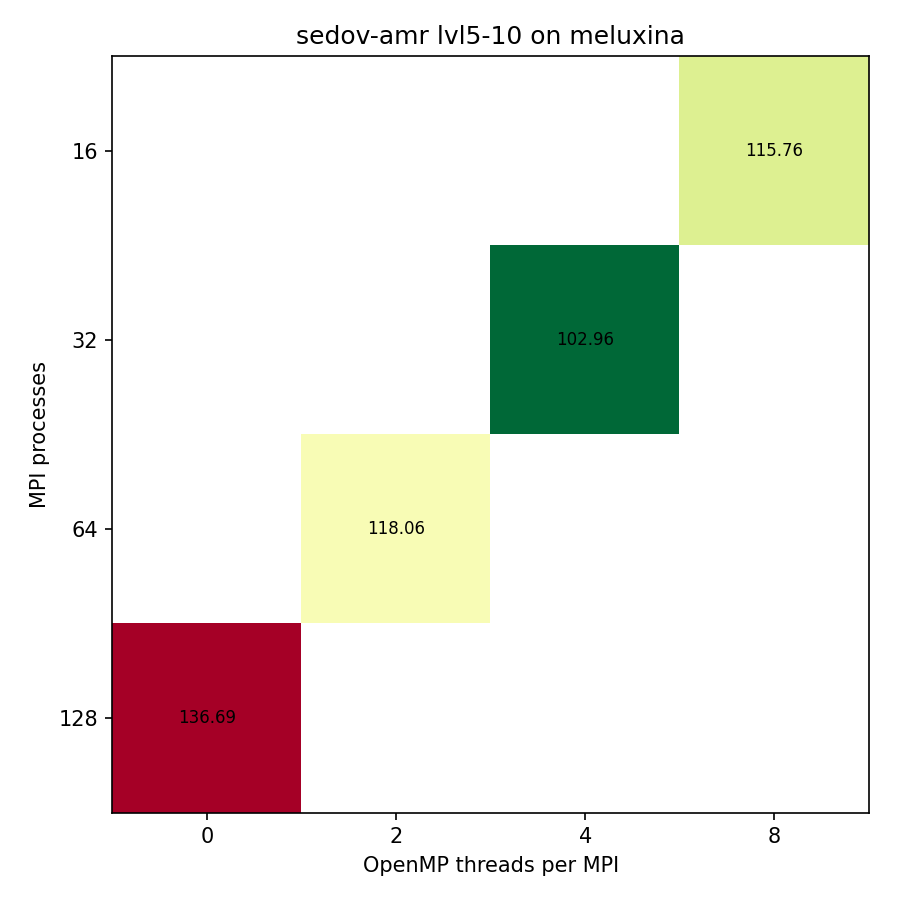
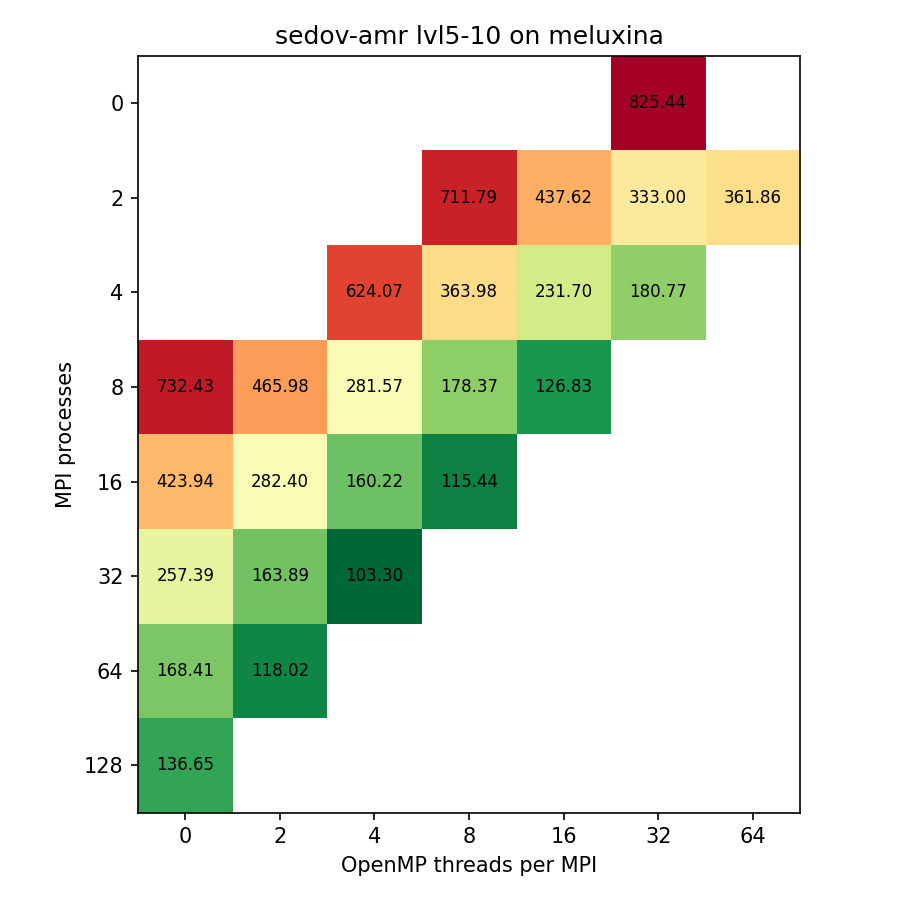
update sedov and sedov-amr on meluxina

diff --git a/results/results_sedov-amr_meluxina.md b/results/results_sedov-amr_meluxina.md
@@ -25,7 +25,7 @@ the time listed is for runs with MPI-only using the full compute node.
 
 | nodes | 2024-10 | 2026-05 | openmp (beta) | Δ [%] |
 |---|---|---|---|---|
-| 1 | 149.19 | 136.34 | 102.96 (MPI=32 OMP=4) | 31.0 |
+| 1 | 149.19 | 136.34 | 103.30 (MPI=32 OMP=4) | 30.8 |
 | 2 | 124.12 | 114.52 | 72.13 (MPI=16 OMP=8) | 41.9 |
 | 4 | 130.04 | 125.38 | 56.51 (MPI=16 OMP=8) | 56.5 |
 | 8 | - | - | 57.44 (MPI=16 OMP=8) | - |
@@ -49,9 +49,9 @@ using the full compute node.
 | nodes | 2024-10 | 2026-05 | openmp (beta) |
 |---|---|---|---|
 | 1 | 1.000 | 1.000 | 1.000 (MPI=32 OMP=4) |
-| 2 | 0.601 | 0.595 | 0.714 (MPI=16 OMP=8) |
-| 4 | 0.287 | 0.272 | 0.455 (MPI=16 OMP=8) |
-| 8 | - | - | 0.224 (MPI=16 OMP=8) |
+| 2 | 0.601 | 0.595 | 0.716 (MPI=16 OMP=8) |
+| 4 | 0.287 | 0.272 | 0.457 (MPI=16 OMP=8) |
+| 8 | - | - | 0.225 (MPI=16 OMP=8) |
 | 16 | - | - | 0.087 (MPI=16 OMP=8) |
 | 32 | - | - | 0.027 (MPI=16 OMP=8) |
 
@@ -85,13 +85,13 @@ when running with hybrid parallelisation.
 
 Unless otherwise stated, data is for runs using full compute nodes.
 
-| nodes | MPI-only | OMP=2 | OMP=4 | OMP=8 | best |
-|---|---|---|---|---|---|
-| 1 | 53.88 GB | 21.83 GB | 12.54 GB | 9.41 GB | 17.5 % |
-| 2 | 60.45 GB | 20.37 GB | 9.51 GB | 6.01 GB | 9.9 % |
-| 4 | 67.75 GB | 22.73 GB | 8.07 GB | 4.39 GB | 6.5 % |
-| 8 | - | 22.41 GB | 8.58 GB | 4.04 GB | - |
-| 16 | - | - | 8.24 GB | 3.74 GB | - |
-| 32 | - | - | - | 3.47 GB | - |
+| nodes | MPI-only | OMP=2 | OMP=4 | OMP=8 | OMP=16 | OMP=32 | OMP=64 | best |
+|---|---|---|---|---|---|---|---|---|
+| 1 | 53.88 GB | 21.83 GB | 12.54 GB | 9.41 GB | 8.19 GB | 7.51 GB | 7.28 GB | 13.5 % |
+| 2 | 60.45 GB | 20.37 GB | 9.51 GB | 6.01 GB | - | - | - | 9.9 % |
+| 4 | 67.75 GB | 22.73 GB | 8.07 GB | 4.39 GB | - | - | - | 6.5 % |
+| 8 | - | 22.41 GB | 8.58 GB | 4.04 GB | - | - | - | - |
+| 16 | - | - | 8.24 GB | 3.74 GB | - | - | - | - |
+| 32 | - | - | - | 3.47 GB | - | - | - | - |
 
 

diff --git a/results/results_sedov_meluxina.md b/results/results_sedov_meluxina.md
@@ -71,7 +71,7 @@ using the full compute node.
 | nodes | resolution | 2024-10 | 2025-05 | 2025-10 | 2026-05 | openmp (beta) |
 |---|---|---|---|---|---|---|
 | 1 | 256 | 1.000  | 1.000  | 1.000  | 1.000  | 1.000 (MPI=8 OMP=16) |
-| 8 | 512 | 0.903  | 0.962  | 0.998  | 0.950  | 0.963 (MPI=32 OMP=4) |
+| 8 | 512 | 0.903  | 0.962  | 0.998  | 0.950  | 0.964 (MPI=32 OMP=4) |
 | 64 | 1024 | 0.941  | 0.917  | 0.915  | 0.849  | 0.821 (MPI=64 OMP=2) |
 
 
